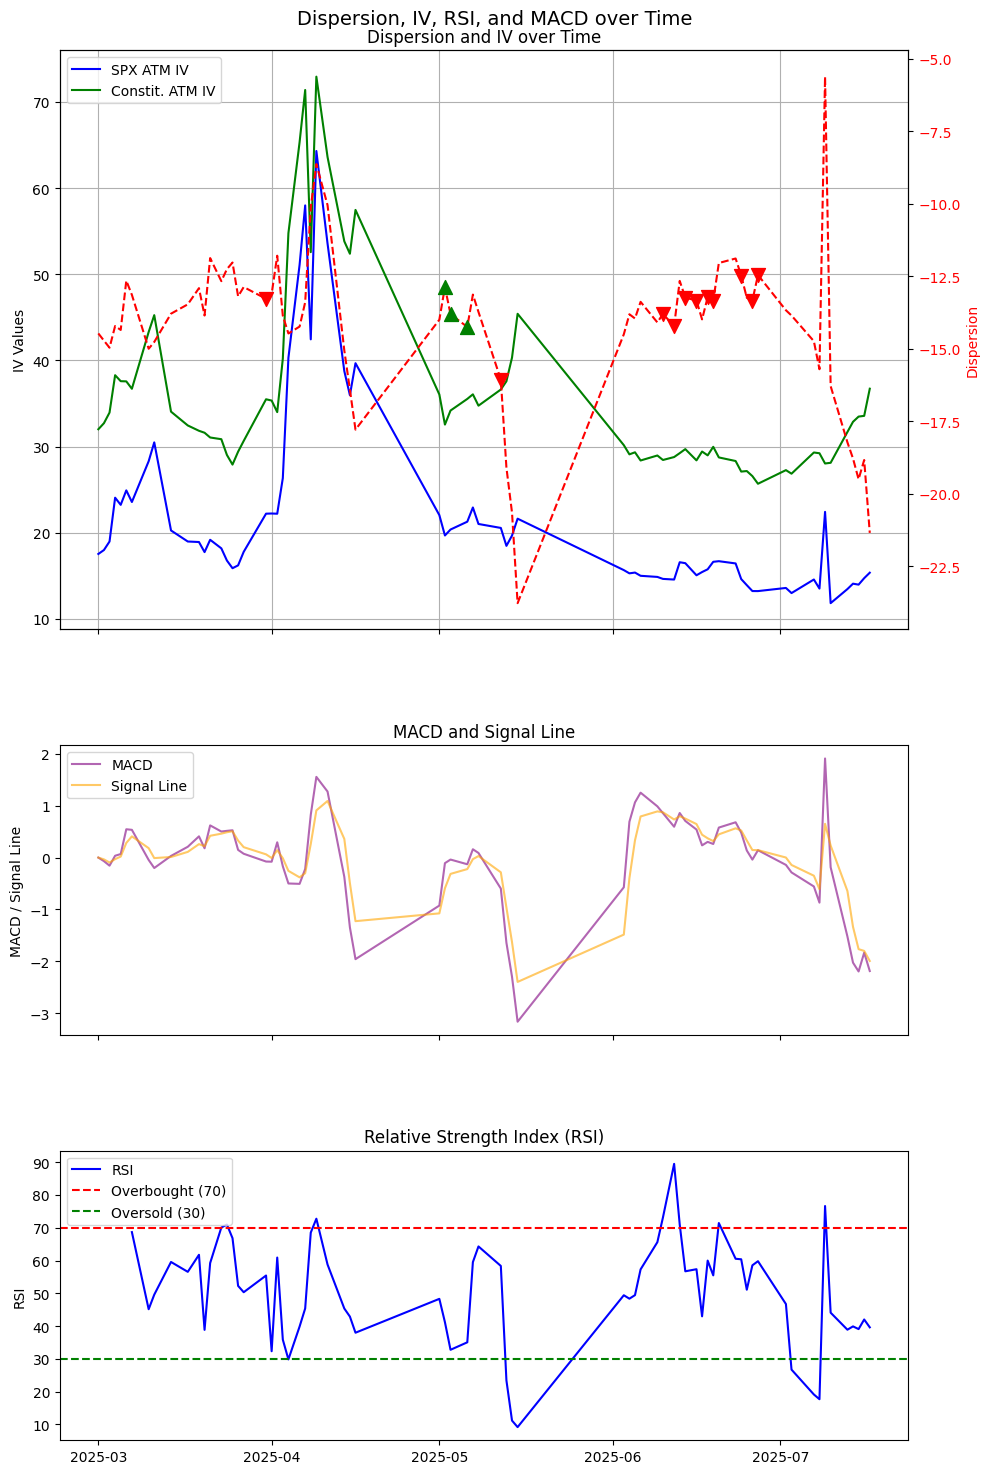
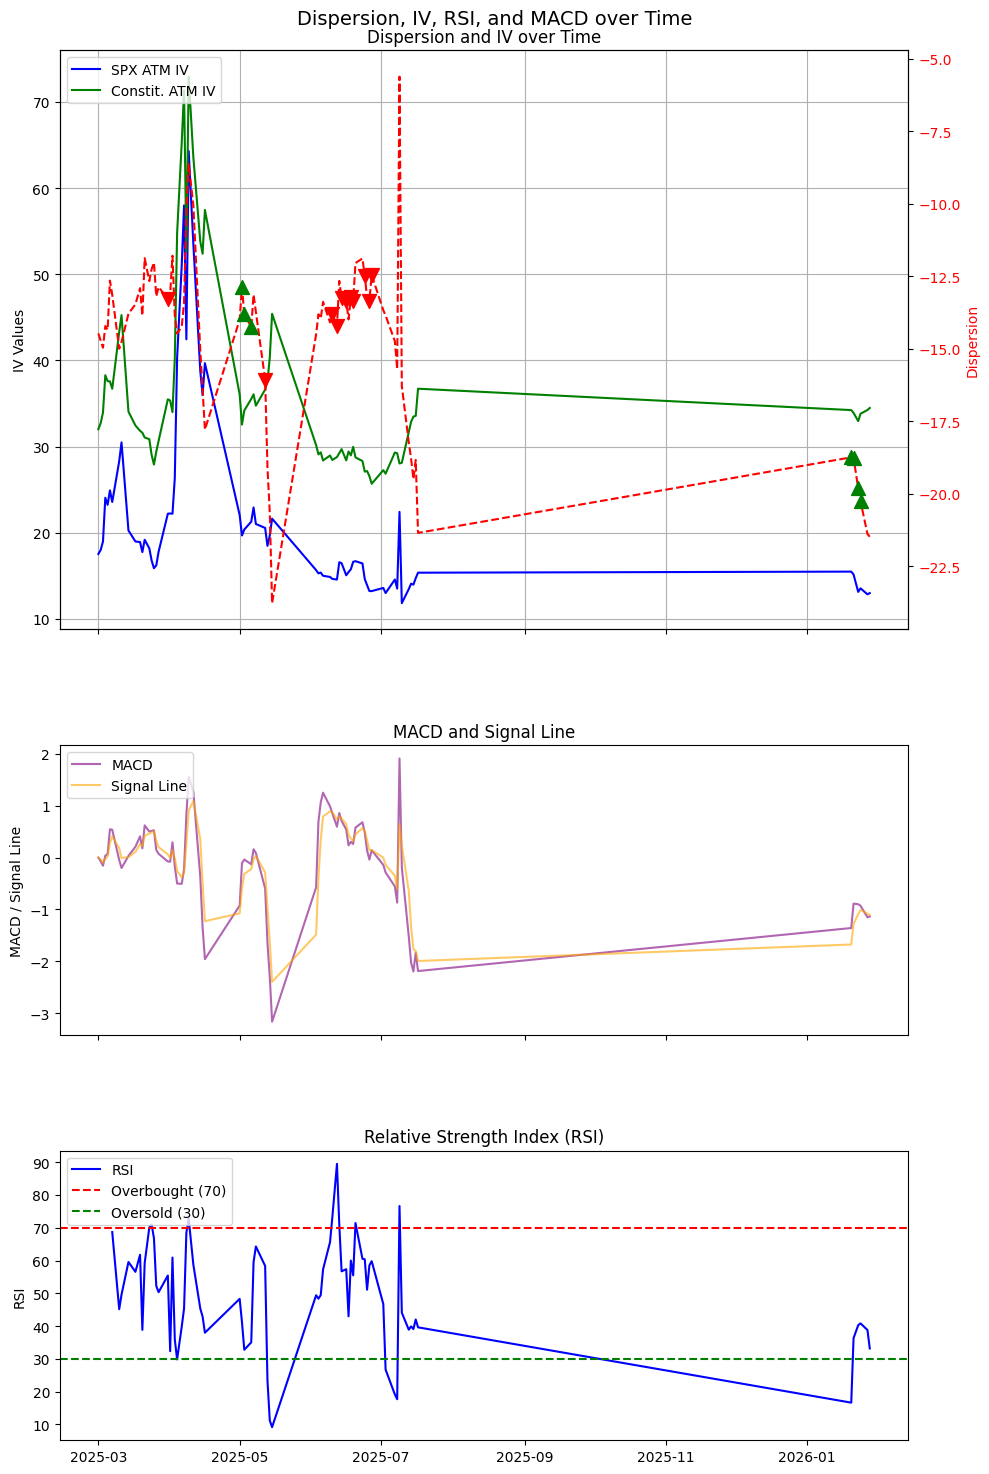
added ls_momentum

diff --git a/ls_momentum_signal.py b/ls_momentum_signal.py
@@ -1,0 +1,303 @@
+import os
+from dotenv import load_dotenv
+import matplotlib.pyplot as plt
+import pandas as pd
+from datetime import datetime, timedelta
+import smtplib
+from email.mime.multipart import MIMEMultipart
+from email.mime.text import MIMEText
+import time
+from email.mime.base import MIMEBase
+from email import encoders
+import warnings
+import numpy as np
+import re
+warnings.filterwarnings('ignore')
+load_dotenv()
+
+ALPACA_API_KEY="PKSWP8A9QH87I5DX69Y4"
+ALPACA_API_SECRET="we0Fo1a7UmijE45Z3rWYkZjXqnsfFg3B8pwrnbdC"
+ALPACA_BASE_URL="https://paper-api.alpaca.markets/"
+
+from alpaca.data.historical import StockHistoricalDataClient
+from alpaca.data.requests import StockBarsRequest
+from alpaca.data.timeframe import TimeFrame
+
+
+script_dir = os.path.dirname(os.path.abspath(__file__))
+market_caps_dir = os.path.join(script_dir, "market_caps")
+market_caps_path = os.path.join(market_caps_dir, "market_caps.xlsx")
+plots_dir = os.path.join(script_dir, "plots")
+
+stock_historical_data_client = StockHistoricalDataClient(ALPACA_API_KEY, ALPACA_API_SECRET)
+
+max_requests_per_minute = 150
+delay_per_request = 60/max_requests_per_minute
+
+def get_constituents(): 
+    sp500 = 'https://yfiua.github.io/index-constituents/constituents-sp500.csv'
+
+    sp500 = pd.read_csv(sp500)
+    sp500 = sp500.sort_values("Symbol", ascending=True)
+    sp500_constituents = sp500['Symbol'].to_list()
+    sp500_constituents = [x.replace("-",".") for x in sp500_constituents]
+    sp500_constituents = [x for x in sp500_constituents if x != "BF.B"]
+
+    return sp500_constituents
+
+def retrieve_daily_close_prices_for_constituents(constituents):
+    """
+    Retrieve daily close prices for a list of stock constituents.
+
+    Args:
+        constituents: List of stock symbols
+
+    Returns:
+        DataFrame with dates as index, tickers as columns, close prices as values
+    """
+    data = {}
+    error_symbols = []
+
+    # Calculate date range (e.g., last 252 trading days ~ 1 year)
+    end_date = datetime.now()
+    start_date = end_date - timedelta(days=365)
+
+    for i, symbol in enumerate(constituents, start=1):
+        try:
+            # Request daily bars for the symbol
+            request_params = StockBarsRequest(
+                symbol_or_symbols=symbol,
+                timeframe=TimeFrame.Day,
+                start=start_date,
+                end=end_date
+            )
+
+            bars = stock_historical_data_client.get_stock_bars(request_params)
+            print(bars)
+            exit()
+            # Convert to dataframe and extract close prices
+            df_bars = bars.df
+            if not df_bars.empty:
+                # Reset index to get timestamp as a column, then set it as index
+                df_bars = df_bars.reset_index(level=0, drop=True)  # Drop symbol level, keep timestamp
+                close_prices = df_bars['close']
+                data[symbol] = close_prices
+            else:
+                print(f"No data returned for {symbol}")
+                error_symbols.append(symbol)
+
+        except Exception as e:
+            print("Error for {}: {}".format(symbol, e))
+            error_symbols.append(symbol)
+            continue
+
+        # Rate limiting: sleep after every max_requests_per_minute calls
+        if i % max_requests_per_minute == 0:
+            print("Reached 150 API calls, sleeping for 60 seconds")
+            time.sleep(60)
+
+    # Combine all symbols into a single DataFrame
+    df = pd.DataFrame(data)
+
+    # Print summary
+    print(f"\nSuccessfully retrieved data for {len(data)} symbols")
+    print(f"Failed symbols ({len(error_symbols)}): {error_symbols}")
+
+    return df
+
+def calculate_momentum_factor(df, lookback_period=365, exclude_recent_days=30):
+    df = df.copy()
+    df = df.pct_change()
+    # Get the most recent date
+    end_date = df.index[-1]
+    
+    # Calculate the start and end of the momentum period
+    # End of momentum period = most recent date - exclude_recent_days
+    end_of_momentum_period = end_date - pd.Timedelta(days=exclude_recent_days)
+    start_of_momentum_period = end_date - pd.Timedelta(days=lookback_period)
+
+    # Get prices at start and end of momentum period
+    df = df.loc[(df.index >= start_of_momentum_period) & (df.index <= end_of_momentum_period)]
+    df = df.cumsum()
+    df = df.loc[df.index == end_of_momentum_period]
+    df = df.T
+    df.columns = ['momentum today']
+    df = df.sort_values(by='momentum today', ascending=False)
+
+    return df
+
+def plot_and_save(df, title, path, figsize=(10,6), dpi=300):
+    ax = df.plot(title=title, figsize=figsize)
+    fig = ax.get_figure()
+    fig.savefig(path, dpi=dpi, bbox_inches="tight")
+    plt.close(fig)
+
+from fractions import Fraction
+
+def adjust_prices_for_splits_inferred(px: pd.DataFrame, max_den=10, tol=0.01, min_jump=0.20):
+    """
+    Infer and adjust stock splits from raw close prices (no split dates needed).
+
+    px: wide DF of prices, DatetimeIndex, columns = tickers
+    max_den: allow split ratios up to p/q where max(p,q) <= max_den (captures 2-for-1, 3-for-2, etc.)
+    tol: relative tolerance for matching ratio (1% default)
+    min_jump: require a big 1-day move (abs return >= 20%) to consider as split candidate
+    """
+    px = px.sort_index().astype(float)
+    out = pd.DataFrame(index=px.index, columns=px.columns, dtype=float)
+
+    for col in px.columns:
+        s = px[col].dropna()
+        if len(s) < 3:
+            out[col] = px[col]
+            continue
+
+        # ratio between consecutive closes (prev / cur)
+        ratio = s.shift(1) / s
+        ret = s.pct_change()
+
+        # approximate ratio by a simple fraction p/q with small denominator
+        cand = ratio.apply(lambda x: float(Fraction(x).limit_denominator(max_den)) if pd.notna(x) else np.nan)
+
+        # split candidates: big move AND ratio close to a simple fraction AND not ~1
+        close_match = (ratio - cand).abs() / ratio.abs() <= tol
+        big_move = ret.abs() >= min_jump
+        not_one = (cand - 1.0).abs() >= 0.05  # ignore tiny adjustments
+
+        split_mask = close_match & big_move & not_one
+
+        # multiplier that should apply to the *previous* day and all earlier history
+        # if ratio≈k (e.g., 2-for-1 => ratio≈2), scale history by 1/k
+        hist_mult = (1.0 / cand).where(split_mask).shift(-1).fillna(1.0)
+
+        # cumulative factor applied to each date (affects all prior dates, not post-split)
+        adj_factor = hist_mult[::-1].cumprod()[::-1]
+
+        out[col] = (s * adj_factor).reindex(px.index)
+
+    return out
+
+if __name__ == "__main__":
+    # constituents = get_constituents()
+
+    # df = retrieve_daily_close_prices_for_constituents(constituents)
+    # df.to_pickle("sp500_daily_close_prices.pkl")
+
+    df = pd.read_pickle("sp500_daily_close_prices.pkl")
+    df = adjust_prices_for_splits_inferred(df, min_jump=0.12, max_den=20, tol=0.015)
+
+    prices = df.copy()
+
+    df = calculate_momentum_factor(df, lookback_period=365, exclude_recent_days=30)
+
+    
+    mkt_caps = pd.read_excel(market_caps_path, sheet_name='Market Caps')
+    mkt_caps = mkt_caps[["Ticker", 'Market Cap']].rename(columns={'Ticker': 'Symbol'}).set_index('Symbol')
+    
+    final_df = df.join(mkt_caps, how='left')
+    final_df['momentum today'] = final_df['momentum today'] * 100
+    final_df = final_df.rename(columns={'momentum today': '12-1M Momentum'})
+
+    def format_market_cap(x):
+        if pd.isna(x):
+            return np.nan
+        x = float(x)
+        for unit, div in [("T", 1e12), ("B", 1e9), ("M", 1e6), ("K", 1e3)]:
+            if abs(x) >= div:
+                return f"{x/div:,.2f}{unit}"
+        return f"{x:,.0f}"
+
+    final_df["Market Cap (fmt)"] = final_df["Market Cap"].map(format_market_cap)
+
+    # Sort still uses the numeric column
+
+
+    pos_momentum = final_df.head(10).sort_values("Market Cap", ascending=False).drop(columns=["Market Cap"]).rename(columns={"Market Cap (fmt)": "Market Cap"})
+    neg_momentum = final_df.tail(10).sort_values("Market Cap", ascending=False).drop(columns=["Market Cap"]).rename(columns={"Market Cap (fmt)": "Market Cap"})
+    
+    pos_momentum["12-1M Momentum"] = pos_momentum["12-1M Momentum"].map(
+    lambda x: f"{x:.2f}%" if pd.notna(x) else "—"
+)
+    neg_momentum["12-1M Momentum"] = neg_momentum["12-1M Momentum"].map(
+    lambda x: f"{x:.2f}%" if pd.notna(x) else "—"
+)
+
+    winners = [x for x in pos_momentum.index]
+    losers = [x for x in neg_momentum.index]
+    winners_prices = prices[winners].pct_change().cumsum()
+    losers_prices = prices[losers].pct_change().cumsum()
+
+
+
+    plot_and_save(winners_prices, "Top 10 Momentum Stocks Performance",
+              os.path.join(plots_dir, "winners.png"))
+
+    plot_and_save(losers_prices, "Bottom 10 Momentum Stocks Performance",
+                os.path.join(plots_dir, "losers.png"))
+    
+
+    # email writing
+    SMTP_SERVER = "smtp.gmail.com"  # Gmail SMTP server
+    SMTP_PORT = 587
+    SENDER_EMAIL = "casselrobson93@gmail.com"
+    SENDER_PASSWORD = "lajhhtqevwvomcts"  
+    RECIPIENT_EMAILS = ["casselrobson19@gmail.com", "misi2700@mylaurier.ca"]
+    SUBJECT = f"Daily Momentum LS Report - {datetime.today().strftime('%Y-%m-%d')}"
+
+    # Convert DataFrame to HTML table
+
+    winners_html = pos_momentum.to_html(index=True, border=1, justify="center")
+    losers_html = neg_momentum.to_html(index=True, border=1, justify="center")
+    # Create email message
+    msg = MIMEMultipart()
+    msg["From"] = SENDER_EMAIL
+    msg["To"] = ", ".join(RECIPIENT_EMAILS)
+    msg["Subject"] = SUBJECT
+
+    # Email body
+    email_body = f"""
+    <html>
+    <head>
+        <style>
+            table {{border-collapse: collapse; width: 100%;}}
+            th, td {{border: 1px solid black; padding: 8px; text-align: center;}}
+            th {{background-color: #f2f2f2;}}
+        </style>
+    </head>
+    <body>
+        <h2>Constituents with highest 12-1M momentum</h2>
+        {winners_html}
+        <h2>Constituents with lowest 12-1M momentum</h2>
+        {losers_html}
+    </body>
+    </html>
+    """
+
+    msg.attach(MIMEText(email_body, "html"))
+
+    # Attach plot
+    if os.path.exists(plots_dir):
+        with open(os.path.join(plots_dir, "winners.png"), "rb") as f:
+            part = MIMEBase("application", "octet-stream")
+            part.set_payload(f.read())
+            encoders.encode_base64(part)
+            part.add_header("Content-Disposition", f"attachment; filename=winners.png")
+            msg.attach(part)
+        with open(os.path.join(plots_dir, "losers.png"), "rb") as f:
+            part = MIMEBase("application", "octet-stream")
+            part.set_payload(f.read())
+            encoders.encode_base64(part)
+            part.add_header("Content-Disposition", f"attachment; filename=losers.png")
+            msg.attach(part)
+            msg.attach(part)
+
+    # Send the email
+    try:
+        server = smtplib.SMTP(SMTP_SERVER, SMTP_PORT)
+        server.starttls()
+        server.login(SENDER_EMAIL, SENDER_PASSWORD)
+        server.sendmail(SENDER_EMAIL, RECIPIENT_EMAILS, msg.as_string())
+        server.quit()
+        print("Email sent successfully!")
+    except Exception as e:
+        print(f"Error sending email: {e}")

diff --git a/dispersion_alpaca.py b/dispersion_alpaca.py
@@ -149,12 +149,14 @@ def get_next_third_friday():
 def get_constituents():
     sp500 = 'https://yfiua.github.io/index-constituents/constituents-sp500.csv'
 
+    
     sp500 = pd.read_csv(sp500)
+
     sp500 = sp500.sort_values("Symbol", ascending=True)
     sp500_constituents = sp500['Symbol'].to_list()
     sp500_constituents = [x.replace("-",".") for x in sp500_constituents]
     sp500_constituents = [x for x in sp500_constituents if x != "BF.B"]
-
+    
     return sp500_constituents
 
 def fetch_mid_iv(symbol, exp, spots):
@@ -383,7 +385,7 @@ def signal(window, implied_vols, long_signal, short_signal, sp):
 if __name__=="__main__":
     sp = get_constituents()
     exp = get_next_third_friday()
-    exp='2025-10-17'
+    exp='2026-02-20'
     spx_iv = fetch_spx_iv(exp)
 
     implied_vols = get_atm_constituent_options(sp, exp)

diff --git a/constituent_skew_report_alpaca.py b/constituent_skew_report_alpaca.py
@@ -123,7 +123,7 @@ def get_next_third_friday():
     return third_friday_date.strftime('%Y-%m-%d')
 
 def find_skew(df, expiry_dt):
-    expiry_dt = datetime(2025, 10, 17).date()
+    expiry_dt = datetime(2026, 2, 20).date()
     df = df[df['expiry_date']==expiry_dt]
     
     # Convert delta column to numeric, handling potential NaNs
@@ -207,7 +207,7 @@ def track_daily_constituent_skew():
 
             expiry = get_next_third_friday()
             expiry_dt = pd.to_datetime(expiry, format="%Y-%m-%d").date()
-            expiry_dt = datetime(2025, 10, 17)
+            expiry_dt = datetime(2026, 2, 20).date()
             
             skew = find_skew(snap, expiry_dt)
             data[symbol] = skew

diff --git a/daily_skew_report_alpaca.py b/daily_skew_report_alpaca.py
@@ -112,7 +112,7 @@ def get_next_third_friday():
     return third_friday_date.strftime('%Y-%m-%d')
 
 def find_skew(df, expiry_dt):
-    expiry_dt = datetime(2025, 10, 17).date()
+    expiry_dt = datetime(2026, 2, 20).date()
     df = df[df['expiry_date']==expiry_dt]
     
     # Convert delta column to numeric, handling potential NaNs
